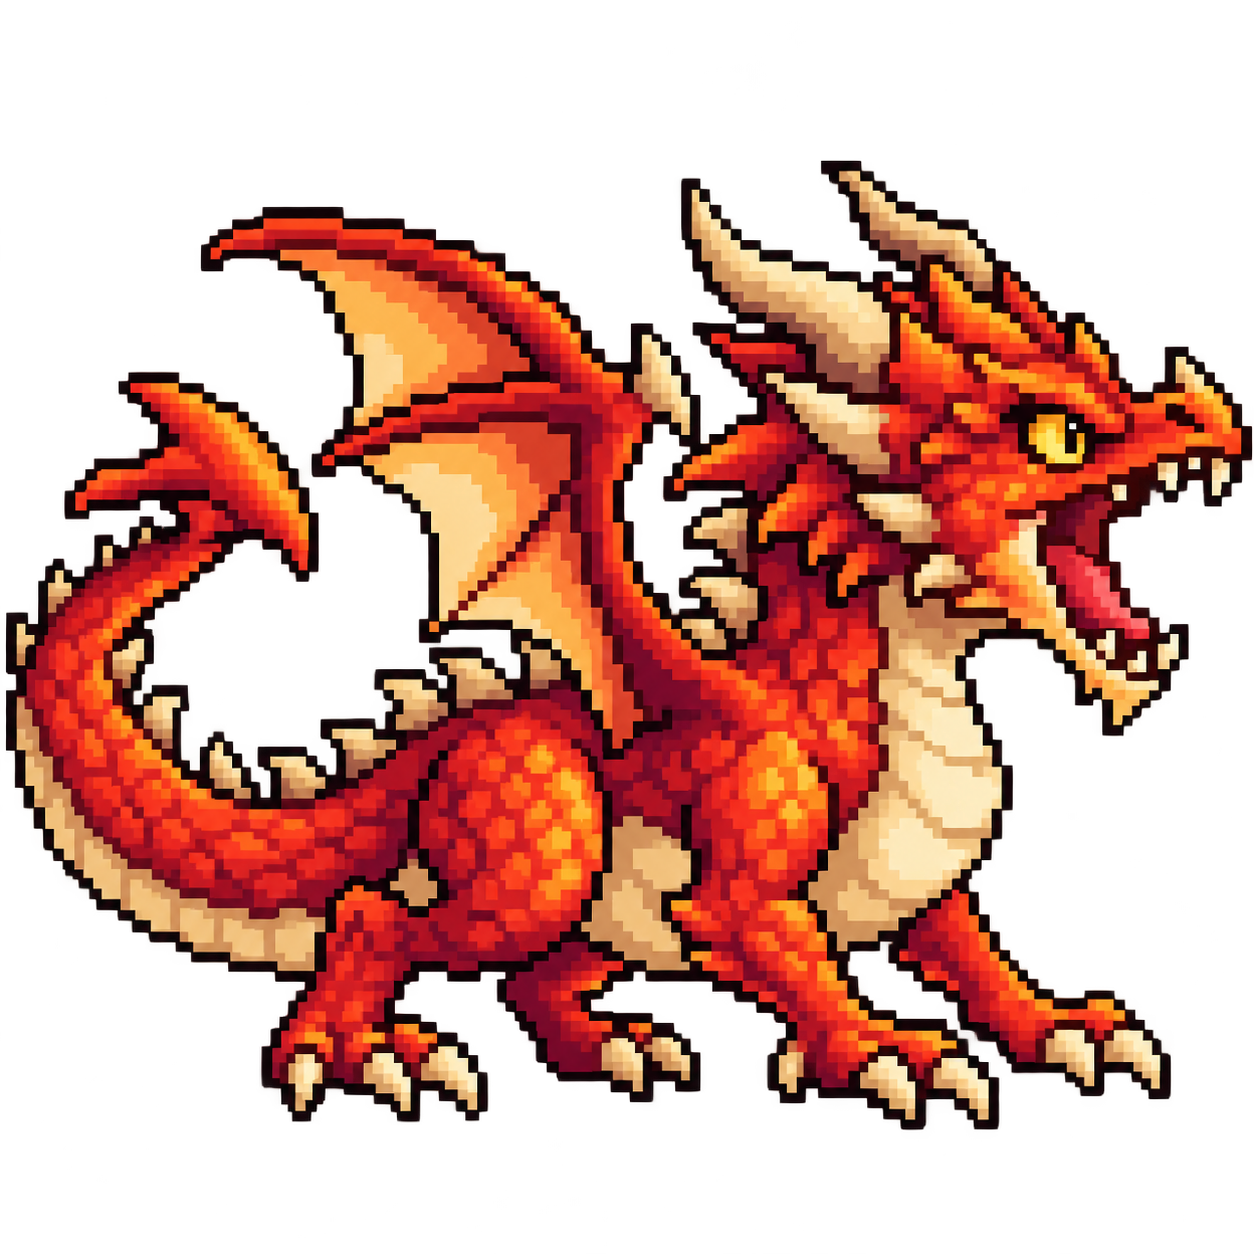
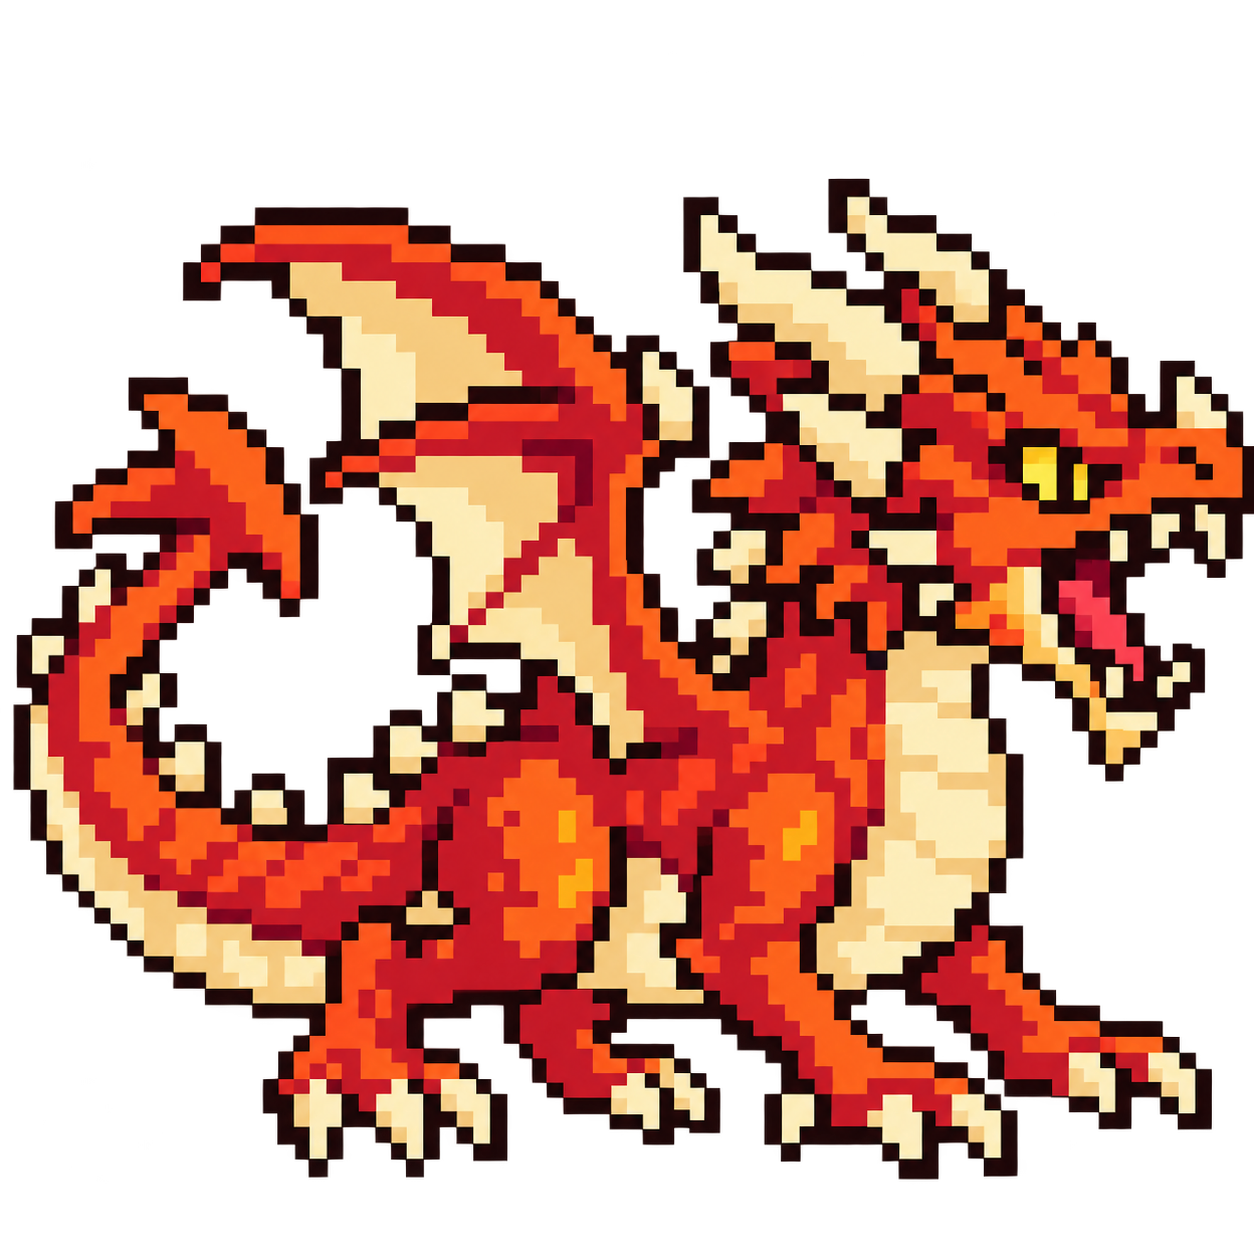
ドラゴンと炎を8ビット風にし、火炎中の羽ばたきと首の動きを追加
Issue #122。実機確認済みのアートワークとアニメーション、制作・確認記録を保存。

diff --git a/SumibiKeyboard/DragonGameEffectView.swift b/SumibiKeyboard/DragonGameEffectView.swift
@@ -33,7 +33,7 @@ final class CandidateStatusLabel: UILabel {
 /// A decorative background inside the existing candidate bar. It never receives touches.
 @MainActor
 final class DragonGameEffectView: UIView {
-    private let dragon = UIImageView(image: DragonGameEffectView.loadDragonSprite())
+    private let dragon = DragonBreathingSpriteView(image: DragonGameEffectView.loadDragonSprite())
     private let fire = DragonFireTrailView()
     private let chargeTrack = CALayer()
     private let chargeFill = CAGradientLayer()
@@ -43,9 +43,11 @@ final class DragonGameEffectView: UIView {
         super.init(frame: frame)
         isUserInteractionEnabled = false
         accessibilityElementsHidden = true
-        dragon.contentMode = .scaleAspectFit
-        dragon.layer.magnificationFilter = .nearest
-        dragon.layer.minificationFilter = .nearest
+        fire.onAnimationFrame = { [weak self] elapsed, strength in
+            guard let self else { return nil }
+            let mouth = self.dragon.updateBreathing(elapsed: elapsed, strength: strength)
+            return self.dragon.convert(mouth, to: self.fire)
+        }
         addSubview(fire)
         addSubview(dragon)
         chargeTrack.backgroundColor = UIColor.systemOrange.withAlphaComponent(0.2).cgColor
@@ -64,10 +66,10 @@ final class DragonGameEffectView: UIView {
               let source = CGImageSourceCreateWithURL(url as CFURL, nil),
               let thumbnail = CGImageSourceCreateThumbnailAtIndex(source, 0, [
                 kCGImageSourceCreateThumbnailFromImageAlways: true,
-                kCGImageSourceThumbnailMaxPixelSize: 132,
+                kCGImageSourceThumbnailMaxPixelSize: 64,
                 kCGImageSourceShouldCacheImmediately: true,
               ] as CFDictionary) else { return nil }
-        // Decode only the display-sized image, not the large generated source.
+        // Keep a coarse 8-bit sprite; nearest filtering preserves its large visible dots.
         return UIImage(cgImage: thumbnail, scale: 3, orientation: .up)
     }
 
@@ -94,12 +96,7 @@ final class DragonGameEffectView: UIView {
         setCharge(0, animated: false)
         guard energy > 0, !UIAccessibility.isReduceMotionEnabled else { return }
         fire.start(energy: CGFloat(energy))
-        let recoil = CAKeyframeAnimation(keyPath: "transform.translation.x")
-        recoil.values = [0, -3, 1, 0]
-        recoil.keyTimes = [0, 0.12, 0.4, 1]
-        recoil.duration = 0.45
         dragon.layer.removeAnimation(forKey: "charge")
-        dragon.layer.add(recoil, forKey: "fire")
     }
 
     func stop() {
@@ -132,9 +129,111 @@ final class DragonGameEffectView: UIView {
     }
 }
 
+/// A small textured mesh animates the existing sprite without extra assets or idle timers.
+/// Shared mesh vertices keep the wing/neck attached rather than sliding cut-out pieces.
+@MainActor
+private final class DragonBreathingSpriteView: UIView {
+    private let image: UIImage?
+    private var elapsed: Double = 0
+    private var strength: CGFloat = 0
+
+    init(image: UIImage?) {
+        self.image = image
+        super.init(frame: .zero)
+        isOpaque = false
+        backgroundColor = .clear
+        isUserInteractionEnabled = false
+    }
+
+    required init?(coder: NSCoder) { fatalError("init(coder:) has not been implemented") }
+
+    @discardableResult
+    func updateBreathing(elapsed: Double, strength: CGFloat) -> CGPoint {
+        self.elapsed = elapsed
+        self.strength = strength
+        setNeedsDisplay()
+        return posedPoint(CGPoint(x: 0.94, y: 0.48))
+    }
+
+    private var imageRect: CGRect {
+        let side = min(bounds.width, bounds.height)
+        return CGRect(x: (bounds.width - side) / 2, y: (bounds.height - side) / 2,
+                      width: side, height: side)
+    }
+
+    private func posedPoint(_ point: CGPoint) -> CGPoint {
+        let rect = imageRect
+        var x = point.x
+        var y = point.y
+        // The upper-left wing has the largest excursion; its shoulder/feet stay anchored.
+        let wing = exp(-pow((x - 0.32) / 0.25, 2) - pow((y - 0.32) / 0.24, 2))
+        let flap = CGFloat(sin(elapsed * .pi * 2 * 4.5)) * strength
+        x += wing * flap * 0.055
+        y += wing * flap * 0.16
+        // Head and neck bob together, fading to zero at the torso and feet.
+        let neck = max(0, min(1, (point.x - 0.55) / 0.22))
+            * max(0, min(1, (0.82 - point.y) / 0.25))
+        y += neck * CGFloat(sin(elapsed * .pi * 2 * 2.5)) * strength * 0.045
+        // A single lean-back at release, then continuous wing/neck motion during fire.
+        let recoil = elapsed < 0.34 ? CGFloat(sin(elapsed / 0.34 * .pi)) * strength : 0
+        let angle = -0.18 * recoil
+        let dx = x - 0.58
+        let dy = y - 0.85
+        x = 0.58 + dx * cos(angle) - dy * sin(angle) - recoil * 0.055
+        y = 0.85 + dx * sin(angle) + dy * cos(angle)
+        return CGPoint(x: rect.minX + x * rect.width, y: rect.minY + y * rect.height)
+    }
+
+    override func draw(_ rect: CGRect) {
+        guard let image, let context = UIGraphicsGetCurrentContext() else { return }
+        context.interpolationQuality = .none
+        context.setShouldAntialias(false)
+        guard strength > 0 else { image.draw(in: imageRect); return }
+        // 8x8 connected quads, two triangles each; at most 128 tiny texture draws/frame.
+        let divisions = 8
+        for row in 0..<divisions {
+            for column in 0..<divisions {
+                let x = CGFloat(column) / CGFloat(divisions)
+                let y = CGFloat(row) / CGFloat(divisions)
+                let step = 1 / CGFloat(divisions)
+                let a = CGPoint(x: x, y: y)
+                let b = CGPoint(x: x + step, y: y)
+                let c = CGPoint(x: x, y: y + step)
+                let d = CGPoint(x: x + step, y: y + step)
+                drawTriangle(a, b, c, image: image, context: context)
+                drawTriangle(d, c, b, image: image, context: context)
+            }
+        }
+    }
+
+    private func drawTriangle(_ a: CGPoint, _ b: CGPoint, _ c: CGPoint,
+                              image: UIImage, context: CGContext) {
+        let p = posedPoint(a), q = posedPoint(b), r = posedPoint(c)
+        let determinant = (b.x - a.x) * (c.y - a.y) - (c.x - a.x) * (b.y - a.y)
+        let xx = ((q.x - p.x) * (c.y - a.y) - (r.x - p.x) * (b.y - a.y)) / determinant
+        let xy = ((r.x - p.x) * (b.x - a.x) - (q.x - p.x) * (c.x - a.x)) / determinant
+        let yx = ((q.y - p.y) * (c.y - a.y) - (r.y - p.y) * (b.y - a.y)) / determinant
+        let yy = ((r.y - p.y) * (b.x - a.x) - (q.y - p.y) * (c.x - a.x)) / determinant
+        context.saveGState()
+        context.beginPath()
+        context.move(to: p)
+        context.addLine(to: q)
+        context.addLine(to: r)
+        context.closePath()
+        context.clip()
+        context.concatenate(CGAffineTransform(a: xx, b: yx, c: xy, d: yy,
+                                              tx: p.x - xx * a.x - xy * a.y,
+                                              ty: p.y - yx * a.x - yy * a.y))
+        image.draw(in: CGRect(x: 0, y: 0, width: 1, height: 1))
+        context.restoreGState()
+    }
+}
+
 /// A short, deterministic pixel-flame burst. No particles or timers remain after it ends.
 @MainActor
 private final class DragonFireTrailView: UIView {
+    var onAnimationFrame: ((Double, CGFloat) -> CGPoint?)?
+    private var mouth: CGPoint?
     private var displayLink: CADisplayLink?
     private var startTime: CFTimeInterval = 0
     private var fadeStartTime: CFTimeInterval?
@@ -156,6 +255,7 @@ private final class DragonFireTrailView: UIView {
         self.energy = energy
         startTime = CACurrentMediaTime()
         elapsed = 0
+        mouth = onAnimationFrame?(0, 0)
         let link = CADisplayLink(target: self, selector: #selector(tick))
         link.preferredFrameRateRange = CAFrameRateRange(minimum: 30, maximum: 30, preferred: 30)
         displayLink = link
@@ -174,6 +274,7 @@ private final class DragonFireTrailView: UIView {
         fadeStartTime = nil
         energy = 0
         elapsed = 0
+        mouth = onAnimationFrame?(0, 0)
         setNeedsDisplay()
     }
 
@@ -189,6 +290,12 @@ private final class DragonFireTrailView: UIView {
             stop()
             return
         }
+        let recovery = min(1, CGFloat((duration - elapsed) / 0.25))
+        let cancellation = fadeStartTime.map {
+            max(0, 1 - CGFloat((CACurrentMediaTime() - $0) / 0.28))
+        } ?? 1
+        let attack = min(1, CGFloat(elapsed / 0.06))
+        mouth = onAnimationFrame?(elapsed, attack * recovery * cancellation)
         setNeedsDisplay()
     }
 
@@ -203,27 +310,40 @@ private final class DragonFireTrailView: UIView {
             max(0, 1 - CGFloat((CACurrentMediaTime() - $0) / 0.28))
         } ?? 1
         let opacity = tailFade * cancelFade
-        let origin: CGFloat = 39
-        let length = max(0, bounds.width - origin - 8) * (0.4 + 0.6 * energy) * easedReach
-        let center = bounds.height * 0.43
+        // Eight chunky rows fit both portrait (5pt dots) and landscape (4pt dots).
+        let cell = max(4, floor(bounds.height / 8))
+        let origin = floor((mouth?.x ?? 40) / cell) * cell
+        let rawLength = max(0, bounds.width - origin - 8) * (0.4 + 0.6 * energy) * easedReach
+        let length = floor(rawLength / cell) * cell
+        let center = floor((mouth?.y ?? bounds.height * 0.43) / cell) * cell
         let thickness = bounds.height * (0.16 + 0.19 * energy)
-        let cell: CGFloat = 3
         guard length > 0 else { return }
-        // Layered jagged tongues read as RPG fire while leaving labels in the foreground.
-        for (scale, color) in [(CGFloat(1), UIColor.systemRed), (0.72, .systemOrange), (0.38, .systemYellow)] {
-            context.setFillColor(color.withAlphaComponent(opacity * 0.68).cgColor)
+        context.setShouldAntialias(false)
+        // Fixed three-color clusters and a 12fps shape evoke an early console sprite.
+        // Fade still updates at 30fps so ending/cancelling remains gentle.
+        let spriteTime = floor(elapsed * 12) / 12
+        let palette: [(CGFloat, UIColor)] = [
+            (1, UIColor(red: 0.86, green: 0.13, blue: 0.10, alpha: 1)),
+            (0.65, UIColor(red: 1, green: 0.39, blue: 0.05, alpha: 1)),
+            (0.3, UIColor(red: 1, green: 0.85, blue: 0.25, alpha: 1)),
+        ]
+        context.setAlpha(opacity * 0.9)
+        context.beginTransparencyLayer(auxiliaryInfo: nil)
+        for (scale, color) in palette {
+            context.setFillColor(color.cgColor)
             var x: CGFloat = 0
             while x < length {
                 let fraction = x / max(length, 1)
-                let wave = CGFloat(sin(Double(x) * 0.14 - elapsed * 16))
+                let wave = CGFloat(sin(Double(x) * 0.14 - spriteTime * 16))
                 let taper = max(0.15, 1 - pow(fraction, 3))
                 let halfHeight = max(cell, (thickness * taper + wave * 2) * scale)
-                let offset = CGFloat(sin(Double(x) * 0.05 - elapsed * 11)) * 2
+                let offset = CGFloat(sin(Double(x) * 0.05 - spriteTime * 11)) * cell
                 let top = floor((center + offset - halfHeight) / cell) * cell
                 let height = ceil(halfHeight * 2 / cell) * cell
-                context.fill(CGRect(x: origin + x, y: top, width: cell + 0.5, height: height))
+                context.fill(CGRect(x: origin + x, y: top, width: cell, height: height))
                 x += cell
             }
         }
+        context.endTransparencyLayer()
     }
 }
